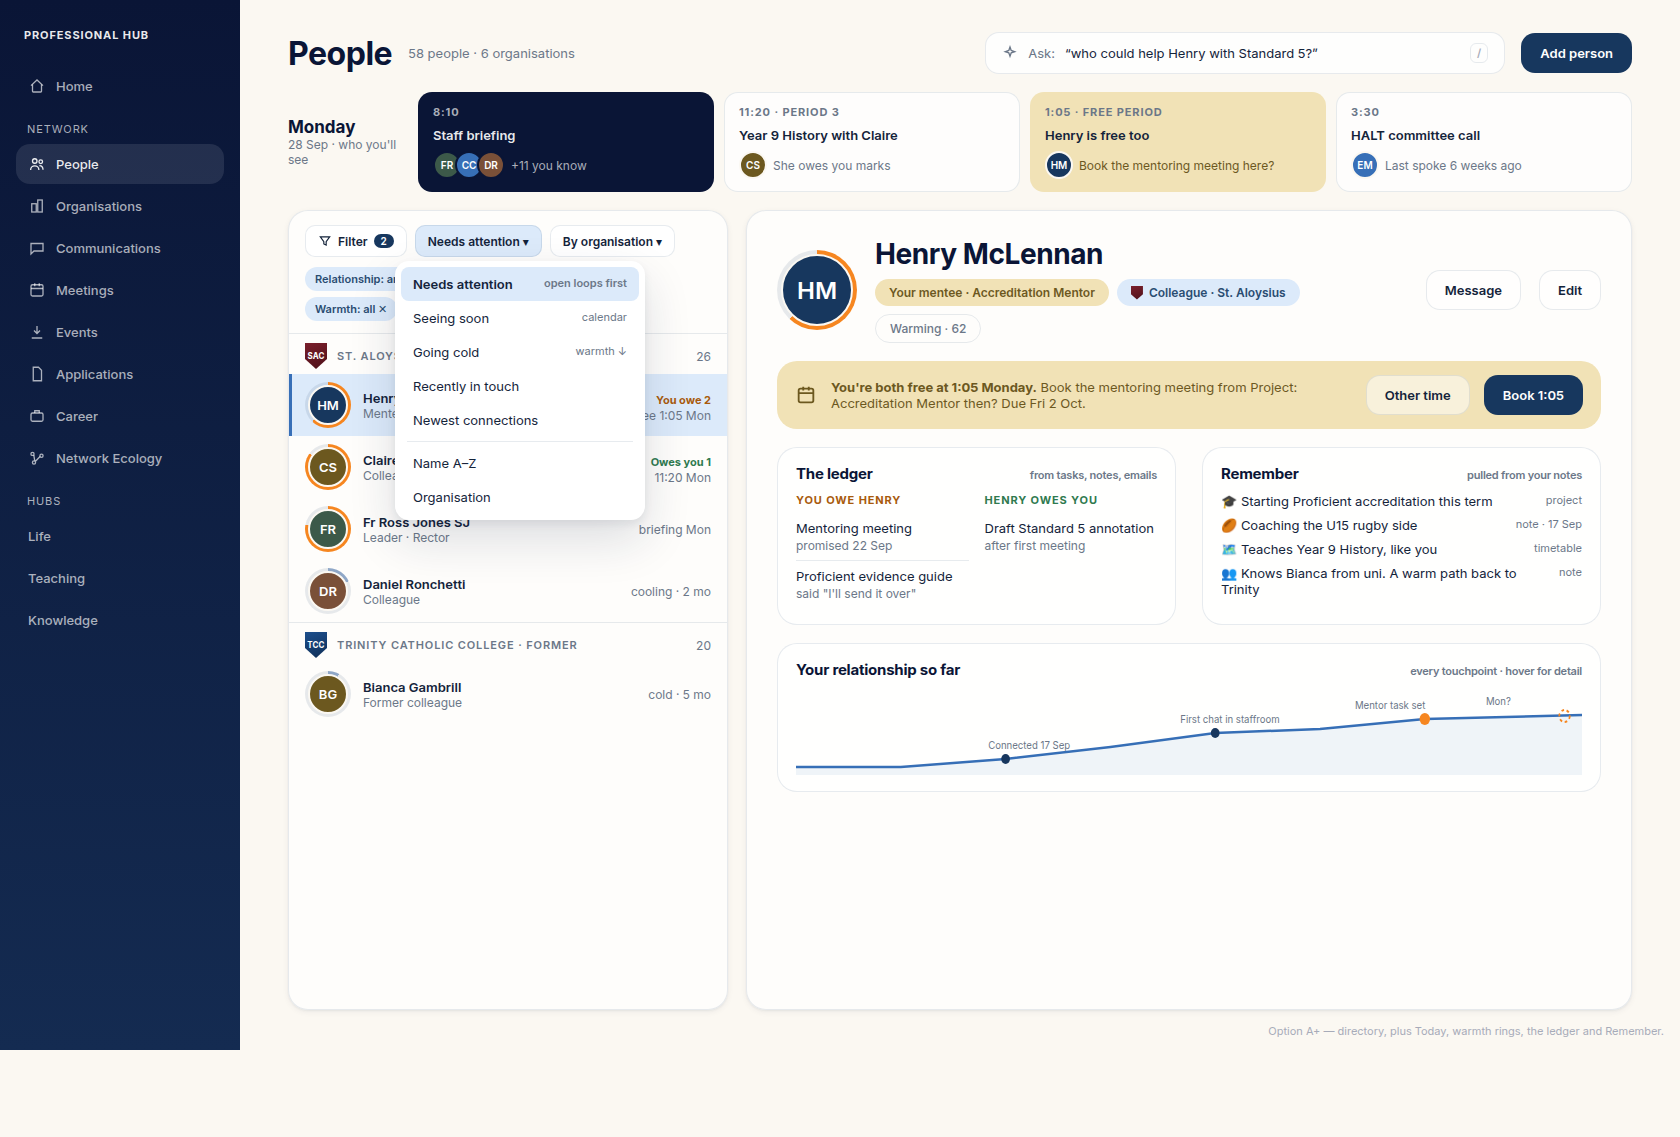
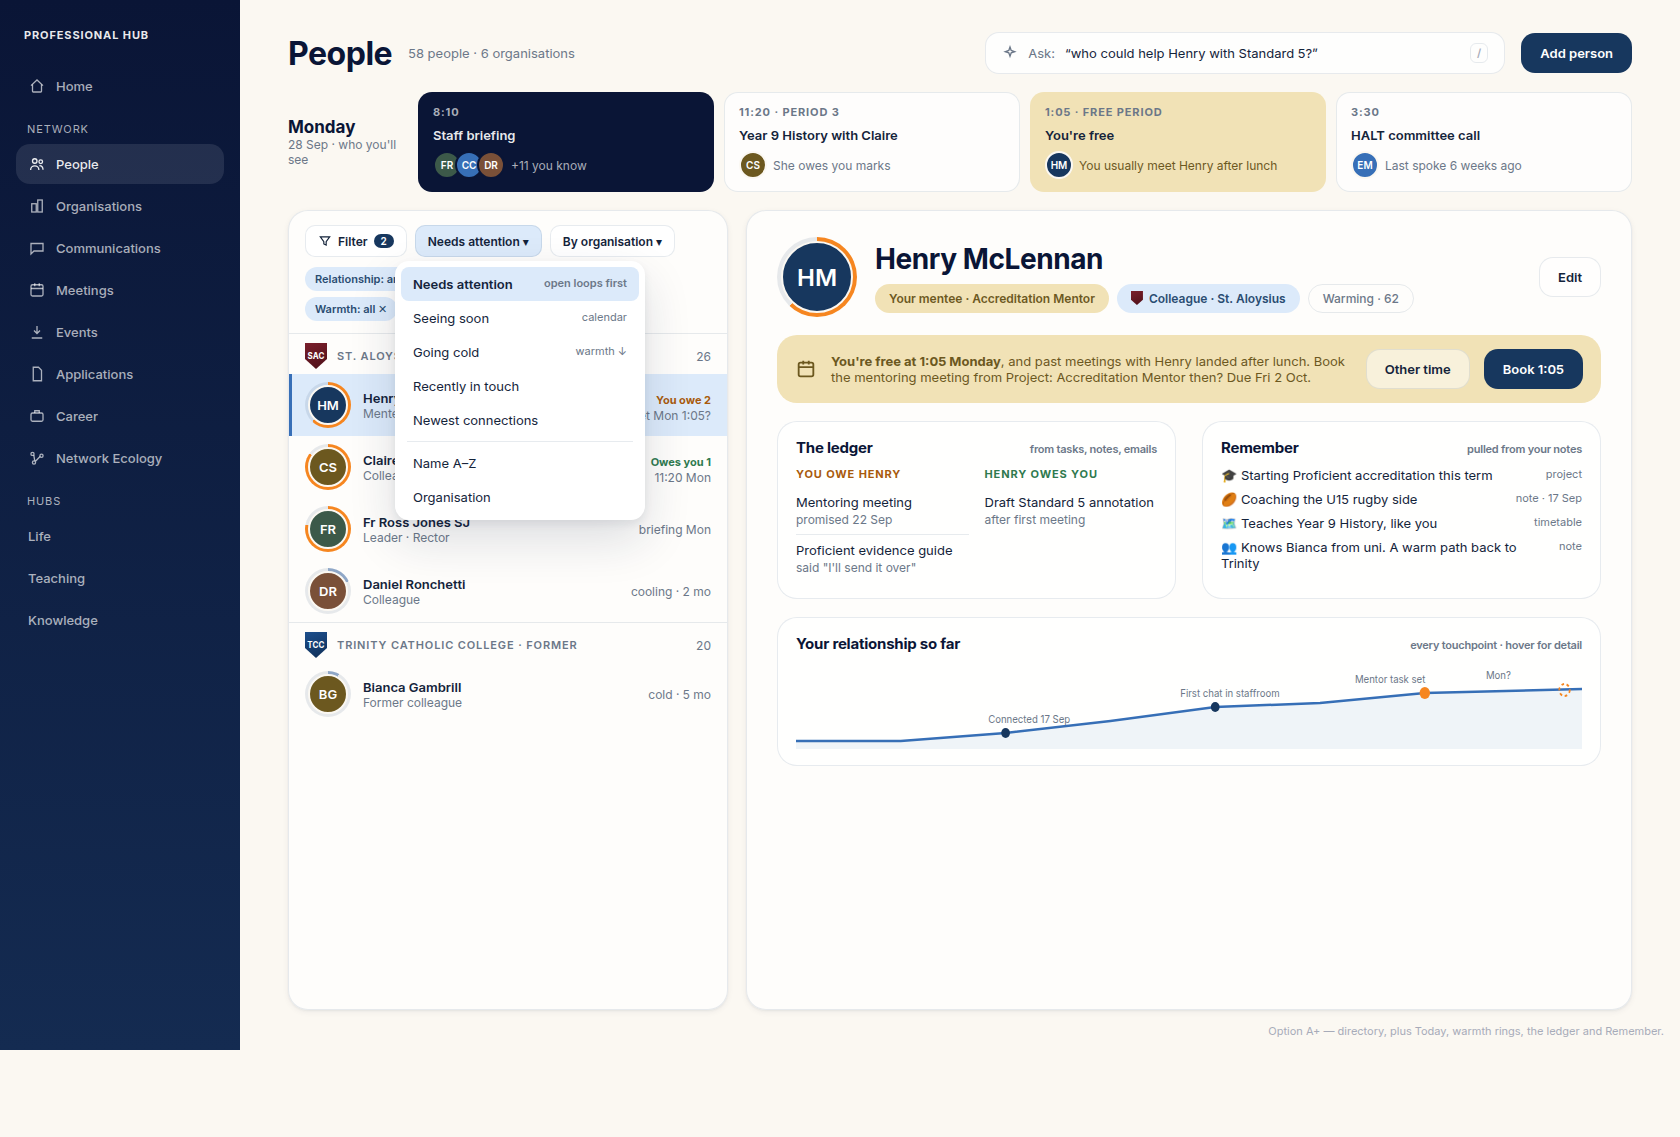
People redesign: record decisions, drop Message, own-availability Today strip
Claude-Session: https://claude.ai/code/session_01RfY47fjyN3kYzsevoAv4Rq

diff --git a/docs/professional-hub/people-redesign/mockups/04-directory-plus.html b/docs/professional-hub/people-redesign/mockups/04-directory-plus.html
@@ -77,7 +77,7 @@
     <div class="today-h"><b>Monday</b><span class="sub">28 Sep · who you'll see</span></div>
     <div class="slot now"><span class="time">8:10</span><span class="t">Staff briefing</span><div class="faces"><span class="avatar av sm a4">FR</span><span class="avatar av sm a2">CC</span><span class="avatar av sm a5">DR</span><span class="sub">+11 you know</span></div></div>
     <div class="slot"><span class="time">11:20 · Period 3</span><span class="t">Year 9 History with Claire</span><div class="faces"><span class="avatar av sm a3">CS</span><span class="sub">She owes you marks</span></div></div>
-    <div class="slot gap"><span class="time">1:05 · Free period</span><span class="t">Henry is free too</span><div class="faces"><span class="avatar av sm a1">HM</span><span class="sub" style="color:var(--pastel-gold-ink)">Book the mentoring meeting here?</span></div></div>
+    <div class="slot gap"><span class="time">1:05 · Free period</span><span class="t">You're free</span><div class="faces"><span class="avatar av sm a1">HM</span><span class="sub" style="color:var(--pastel-gold-ink)">You usually meet Henry after lunch</span></div></div>
     <div class="slot"><span class="time">3:30</span><span class="t">HALT committee call</span><div class="faces"><span class="avatar av sm a2">EM</span><span class="sub">Last spoke 6 weeks ago</span></div></div>
   </section>
 
@@ -98,7 +98,7 @@
         <hr><div>Name A–Z</div><div>Organisation</div>
       </div>
       <div class="group"><span class="crest sm c-sac">SAC</span><span class="eyebrow">St. Aloysius College · your workplace</span><span class="sub">26</span></div>
-      <div class="p is-on"><span class="ring" style="--w:62"><span class="avatar av a1">HM</span></span><div class="stack"><span class="name">Henry McLennan</span><span class="sub">Mentee · Accreditation</span></div><div class="end"><span class="owe"><span class="me">You owe 2</span></span><div class="sub">free 1:05 Mon</div></div></div>
+      <div class="p is-on"><span class="ring" style="--w:62"><span class="avatar av a1">HM</span></span><div class="stack"><span class="name">Henry McLennan</span><span class="sub">Mentee · Accreditation</span></div><div class="end"><span class="owe"><span class="me">You owe 2</span></span><div class="sub">meet Mon 1:05?</div></div></div>
       <div class="p"><span class="ring" style="--w:85"><span class="avatar av a3">CS</span></span><div class="stack"><span class="name">Claire Smith</span><span class="sub">Colleague · co-teaching</span></div><div class="end"><span class="owe"><span class="them">Owes you 1</span></span><div class="sub">11:20 Mon</div></div></div>
       <div class="p"><span class="ring" style="--w:78"><span class="avatar av a4">FR</span></span><div class="stack"><span class="name">Fr Ross Jones SJ</span><span class="sub">Leader · Rector</span></div><div class="end sub">briefing Mon</div></div>
       <div class="p"><span class="ring cool" style="--w:18"><span class="avatar av a5">DR</span></span><div class="stack"><span class="name">Daniel Ronchetti</span><span class="sub">Colleague</span></div><div class="end sub">cooling · 2 mo</div></div>
@@ -113,11 +113,11 @@
           <h2 class="page-title" style="font-size:28px;margin:0">Henry McLennan</h2>
           <div class="facts" style="margin-top:8px"><span class="chip chip-gold">Your mentee · Accreditation Mentor</span><span class="chip chip-blue"><span class="crest sm c-sac" style="width:12px;height:14px;font-size:0"></span>Colleague · St. Aloysius</span><span class="chip chip-outline">Warming · 62</span></div>
         </div>
-        <span class="btn btn-outline">Message</span><span class="btn btn-outline">Edit</span>
+        <span class="btn btn-outline">Edit</span>
       </div>
 
       <div class="next full"><svg width="22" height="22" viewBox="0 0 24 24" fill="none" stroke="currentColor" stroke-width="2"><rect x="4" y="5" width="16" height="15" rx="2"/><path d="M4 10h16M9 3v4M15 3v4"/></svg>
-        <p><b>You're both free at 1:05 Monday.</b> Book the mentoring meeting from Project: Accreditation Mentor then? Due Fri 2 Oct.</p>
+        <p><b>You're free at 1:05 Monday</b>, and past meetings with Henry landed after lunch. Book the mentoring meeting from Project: Accreditation Mentor then? Due Fri 2 Oct.</p>
         <span class="btn btn-outline">Other time</span><span class="btn btn-primary">Book 1:05</span></div>
 
       <div class="box">

diff --git a/docs/professional-hub/people-redesign/DECISIONS.md b/docs/professional-hub/people-redesign/DECISIONS.md
@@ -1,0 +1,30 @@
+# People redesign: decisions
+
+Direction: `mockups/04-directory-plus` (Option A+). Recorded 26 Sep 2026.
+
+## Layout
+- One heading. One person view (the brief becomes the profile, and the separate brief page goes).
+- Directory grouped by organisation, with filter, sort and group controls.
+- No Message button. The hub will never send work email. Communications
+  records what happened; it does not send anything.
+
+## Feature ownership
+
+| Feature | Built by | Notes |
+|---|---|---|
+| Crests | Product | Logo field and upload on Organisation. Adam supplies the images |
+| Link inference | Agent sweep (Hammond daily sweep and annotation automations) | Sweeps Tasks and Events (then other hubs) for people. Proposes `professional_relationship` / `employee_at` / `collaborator` / `contact` links. Adam confirms each one |
+| Warmth score | Product algorithm | Weighted by relationship: people closer to Adam, and closer to his current circumstances (current workplace, active projects), go cold faster. Communications feeds it once built |
+| Remember | Agent automation, about twice a day | Pulls facts from notes, tasks and comms. Each fact shows its source. Editable |
+| Ledger | Agent, triggered from an avatar button on the person card, plus the sweep | Two directions: you owe / they owe. Writes into the card live, patching in place with no reload flash. Every item is editable. Conversions: ledger item → task, task → comms item |
+| Ask | AI search agent (owner undecided, see below) | Needs cross-hub context: people graph, tasks, projects, teaching/APST |
+| Today strip | Product | Adam's own availability only. Suggests times from the history of past meetings with that person. No other staff timetables |
+
+## Open question: which agent owns Professional?
+No agent currently has the professional domain (`_shared/agent-directory.mjs`).
+Ann O'Tation is set up as a teaching and lesson coach. Hammond is the
+whole-hub coordinator. Options:
+1. Extend Ann's remit to professional practice (mentoring, APST, colleagues).
+2. A new Professional specialist that owns People, the ledger, Remember and Ask.
+   Hammond's sweep hands People work to it.
+3. Hammond does it directly.
